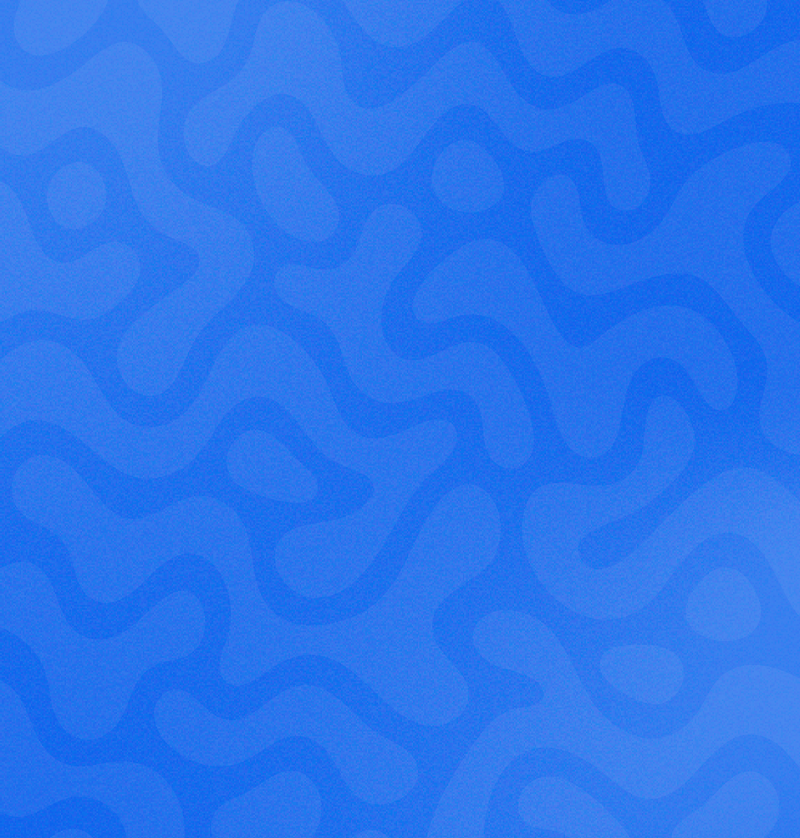
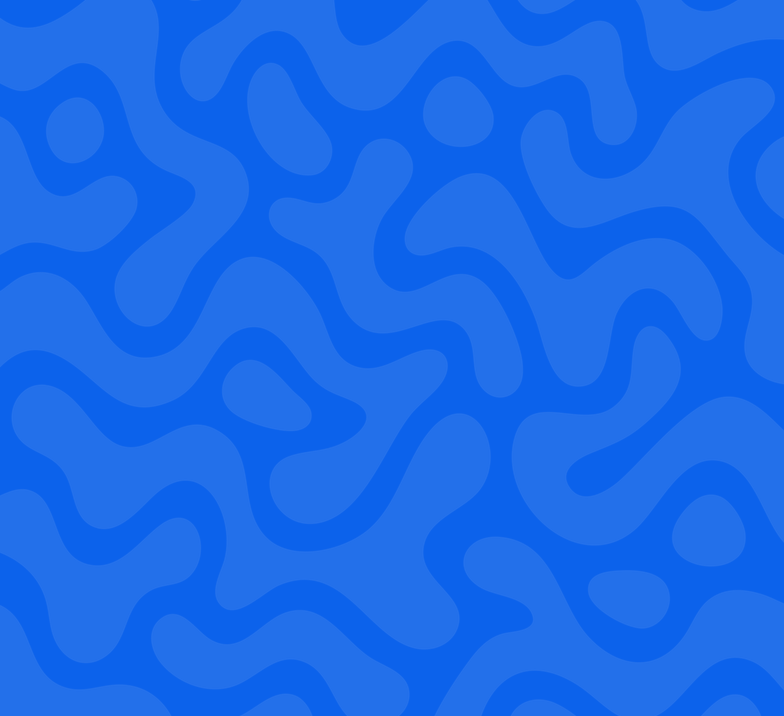
style(mobile): recuperar fondo azul vivo con formas en inicio manteniendo arte SoloSeTu

diff --git a/apps/mobile/lib/features/home/student_home_screen.dart b/apps/mobile/lib/features/home/student_home_screen.dart
@@ -5,6 +5,7 @@ import '../../shared/theme/app_theme.dart';
 import '../../shared/widgets/campaign_screen.dart';
 import '../../shared/widgets/setu_bottom_nav.dart';
 import '../../shared/widgets/setu_card.dart';
+import '../piece/campaign_characters.dart';
 import '../piece/student_piece.dart';
 import '../support/alert_screens.dart';
 import 'learning_progress.dart';
@@ -143,9 +144,9 @@ class _HomeHeader extends StatelessWidget {
             '¡Hola!',
             style: TextStyle(
               color: Colors.white,
-              fontSize: 42,
+              fontSize: 40,
               fontWeight: FontWeight.w700,
-              height: 1.05,
+              height: 1.1,
             ),
           ),
           SizedBox(height: 4),
@@ -154,63 +155,57 @@ class _HomeHeader extends StatelessWidget {
             style: TextStyle(
               color: Colors.white,
               fontSize: 14,
-              fontWeight: FontWeight.w700,
-              height: 1.25,
+              fontWeight: FontWeight.w600,
+              height: 1.2,
             ),
           ),
         ],
       ),
     );
-    return ConstrainedBox(
-      constraints: const BoxConstraints(minHeight: 192),
-      child: DecoratedBox(
-        decoration: const BoxDecoration(
-          image: DecorationImage(
-            image: AssetImage('assets/home/fondo-homepage-banner.png'),
-            fit: BoxFit.cover,
-            alignment: Alignment.centerRight,
-          ),
-        ),
-        child: DecoratedBox(
-          decoration: const BoxDecoration(
-            gradient: LinearGradient(
-              begin: Alignment.centerLeft,
-              end: Alignment.centerRight,
-              colors: <Color>[
-                Color(0xD80C62EB),
-                Color(0x660C62EB),
-                Color(0x000C62EB),
-              ],
-              stops: <double>[0, 0.48, 0.85],
-            ),
-          ),
-          child: Padding(
-            padding: const EdgeInsets.fromLTRB(18, 12, 14, 18),
-            child: Column(
-              crossAxisAlignment: CrossAxisAlignment.stretch,
-              mainAxisAlignment: MainAxisAlignment.spaceBetween,
-              children: <Widget>[
-                Row(
-                  children: <Widget>[
-                    const CampaignSymbol(size: 28),
-                    const Spacer(),
-                    PieceHeaderButton(piece: piece),
-                  ],
-                ),
-                const SizedBox(height: 22),
-                if (largeText)
-                  greeting
-                else
-                  Row(
-                    children: <Widget>[
-                      Expanded(flex: 6, child: greeting),
-                      const Spacer(flex: 4),
-                    ],
+    const Widget characters = CampaignCharacters();
+    return Padding(
+      padding: const EdgeInsets.fromLTRB(18, 8, 12, 12),
+      child: Column(
+        children: <Widget>[
+          Row(
+            children: <Widget>[
+              const CampaignSymbol(size: 32),
+              const SizedBox(width: 8),
+              const Expanded(
+                child: ExcludeSemantics(
+                  child: Text(
+                    'SéTú',
+                    style: TextStyle(
+                      color: Colors.white,
+                      fontSize: 25,
+                      fontWeight: FontWeight.w700,
+                    ),
                   ),
+                ),
+              ),
+              PieceHeaderButton(piece: piece),
+            ],
+          ),
+          const SizedBox(height: 6),
+          if (largeText)
+            Column(
+              crossAxisAlignment: CrossAxisAlignment.stretch,
+              children: <Widget>[
+                greeting,
+                Align(
+                  alignment: Alignment.centerRight,
+                  child: SizedBox(width: 156, child: characters),
+                ),
+              ],
+            )
+          else
+            Row(
+              children: <Widget>[
+                Expanded(flex: 52, child: greeting),
+                Expanded(flex: 48, child: characters),
               ],
             ),
-          ),
-        ),
+        ],
       ),
     );
   }

diff --git a/apps/mobile/lib/shared/widgets/campaign_screen.dart b/apps/mobile/lib/shared/widgets/campaign_screen.dart
@@ -94,9 +94,10 @@ class CampaignBackground extends StatelessWidget {
     decoration: const BoxDecoration(
       color: CureandoTheme.blue,
       image: DecorationImage(
-        image: AssetImage('assets/welcome/pag1-fondo.png'),
-        fit: BoxFit.cover,
+        image: AssetImage('assets/welcome/campaign-pattern.png'),
+        fit: BoxFit.fitWidth,
         alignment: Alignment.topCenter,
+        repeat: ImageRepeat.repeatY,
       ),
     ),
     child: child,
